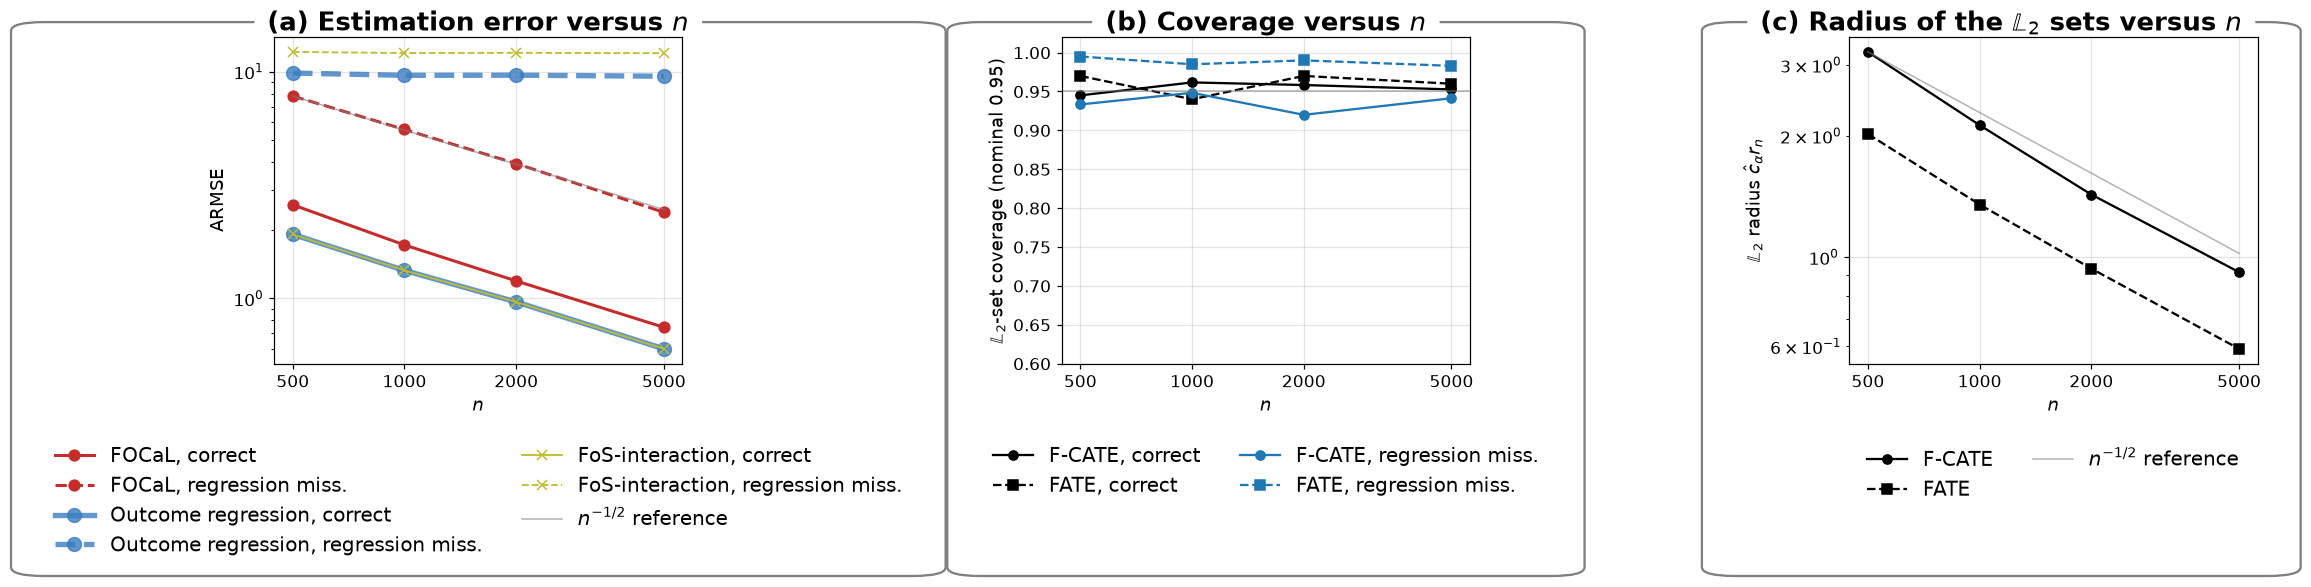
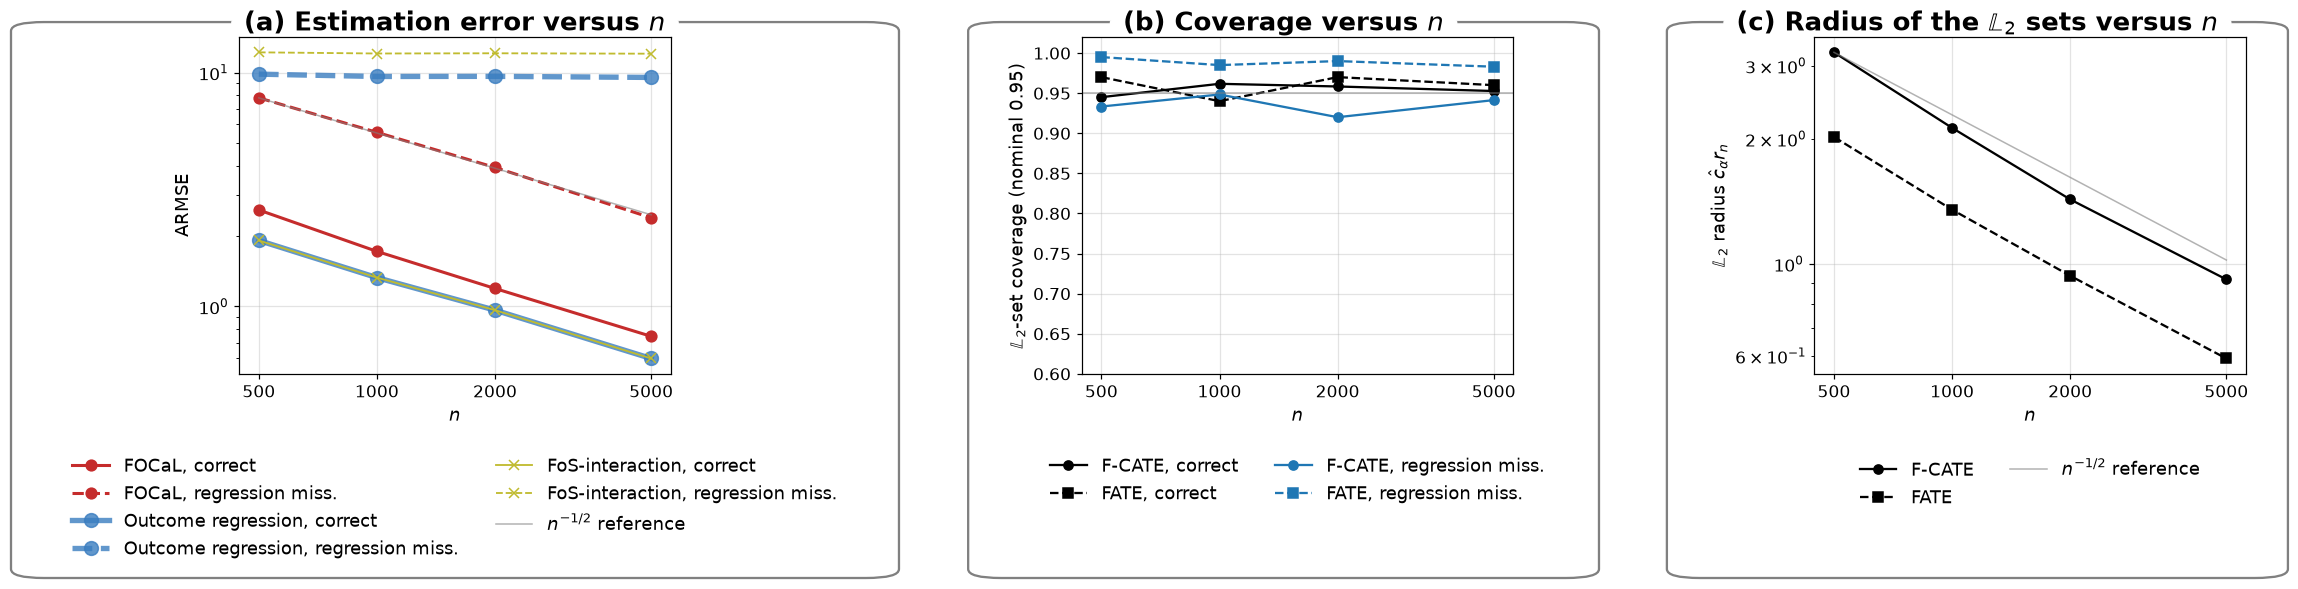
Revision: plots

diff --git a/simulations/figure_supp.py b/simulations/figure_supp.py
@@ -110,7 +110,7 @@ def block_frame(fig, bbox, title, pad_x=0.012, pad_y=0.012, extra_top=1.6, title
 
 
 def frame_all(fig, axes, legend_ncol=3, legend_dy=-0.2, h_pad=6.0, w_pad=7.0,
-              title_fs=14, legend_fs=None, align_cols=False, pad_x=0.012):
+              title_fs=14, legend_fs=None, align_cols=False, pad_x=0.012, shifts=None):
     axes = [a for a in np.ravel(axes)]
     titles = []
     for ax in axes:
@@ -125,6 +125,10 @@ def frame_all(fig, axes, legend_ncol=3, legend_dy=-0.2, h_pad=6.0, w_pad=7.0,
             ax.legend(handles, labels, frameon=False, ncol=min(len(labels), legend_ncol), loc='upper center',
                       bbox_to_anchor=(0.5, legend_dy), fontsize=size)
     fig.tight_layout(h_pad=h_pad, w_pad=w_pad)
+    if shifts:   # {axis index: horizontal shift in figure fraction}, applied after the layout
+        for i, dx in shifts.items():
+            p = axes[i].get_position()
+            axes[i].set_position([p.x0 + dx, p.y0, p.width, p.height])
     fig.canvas.draw()
     rend = fig.canvas.get_renderer()
     tight = lambda a: a.get_tightbbox(rend).transformed(fig.transFigure.inverted())
@@ -205,7 +209,8 @@ def figure_samplesize(m, c, out):
         ax.xaxis.set_minor_locator(NullLocator())
         ax.xaxis.set_minor_formatter(NullFormatter())
 
-    frame_all(fig, axes, legend_ncol=2, legend_dy=-0.2, title_fs=17, legend_fs=13)
+    frame_all(fig, axes, legend_ncol=2, legend_dy=-0.2, title_fs=17, legend_fs=12,
+          shifts={1: 0.025})
     fig.savefig(f'{out}/figure_S_samplesize.pdf', bbox_inches='tight')
     fig.savefig(f'{out}/figure_S_samplesize.png', dpi=110, bbox_inches='tight')
 
